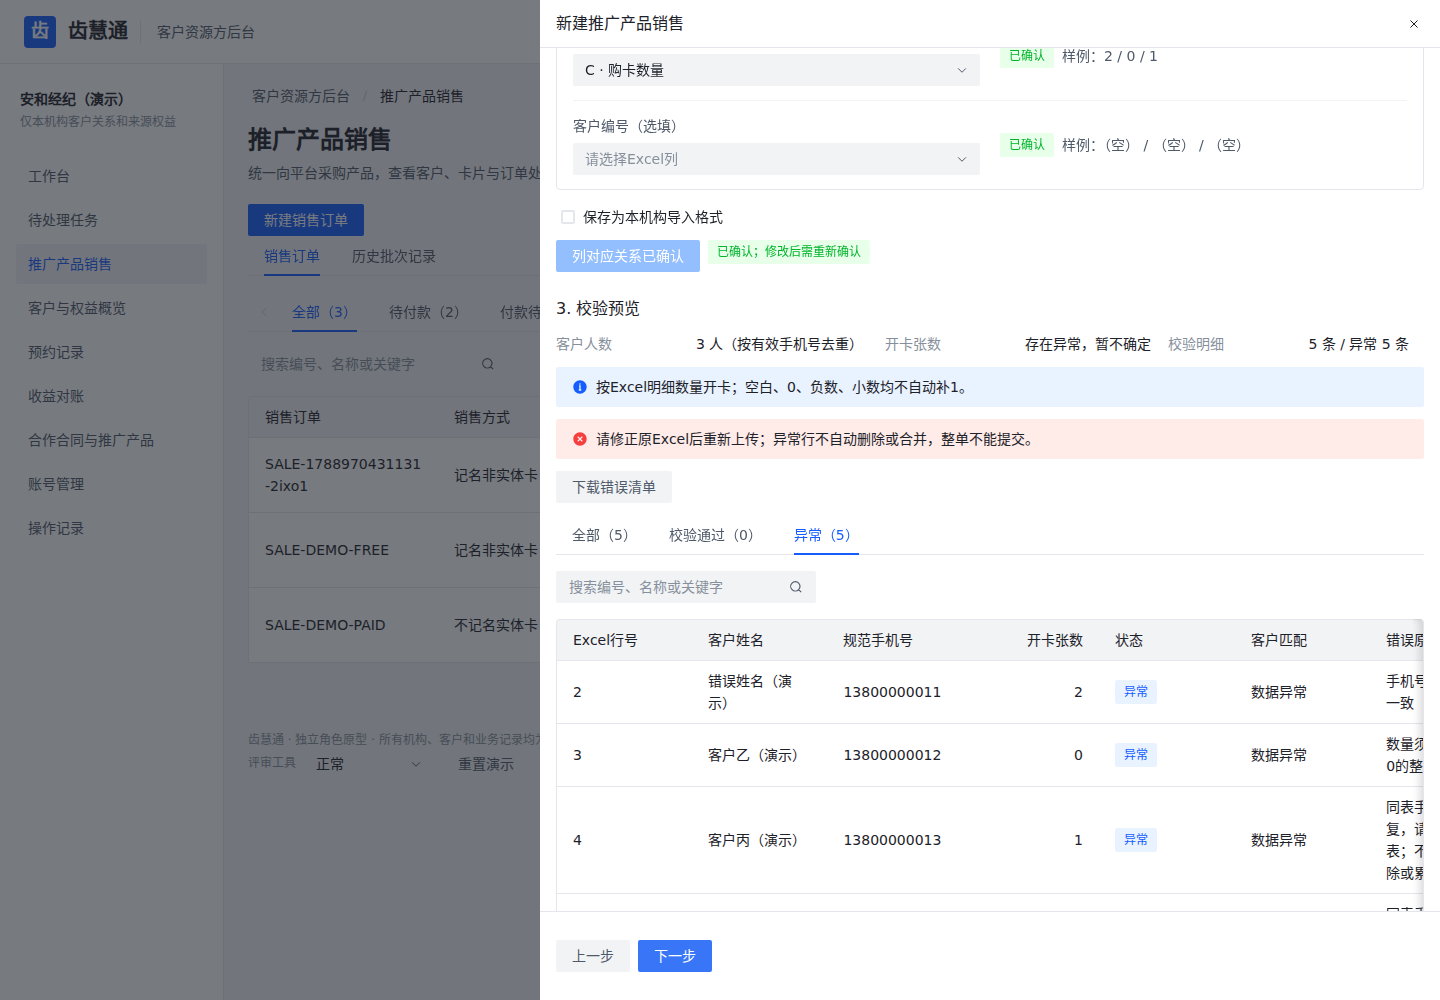
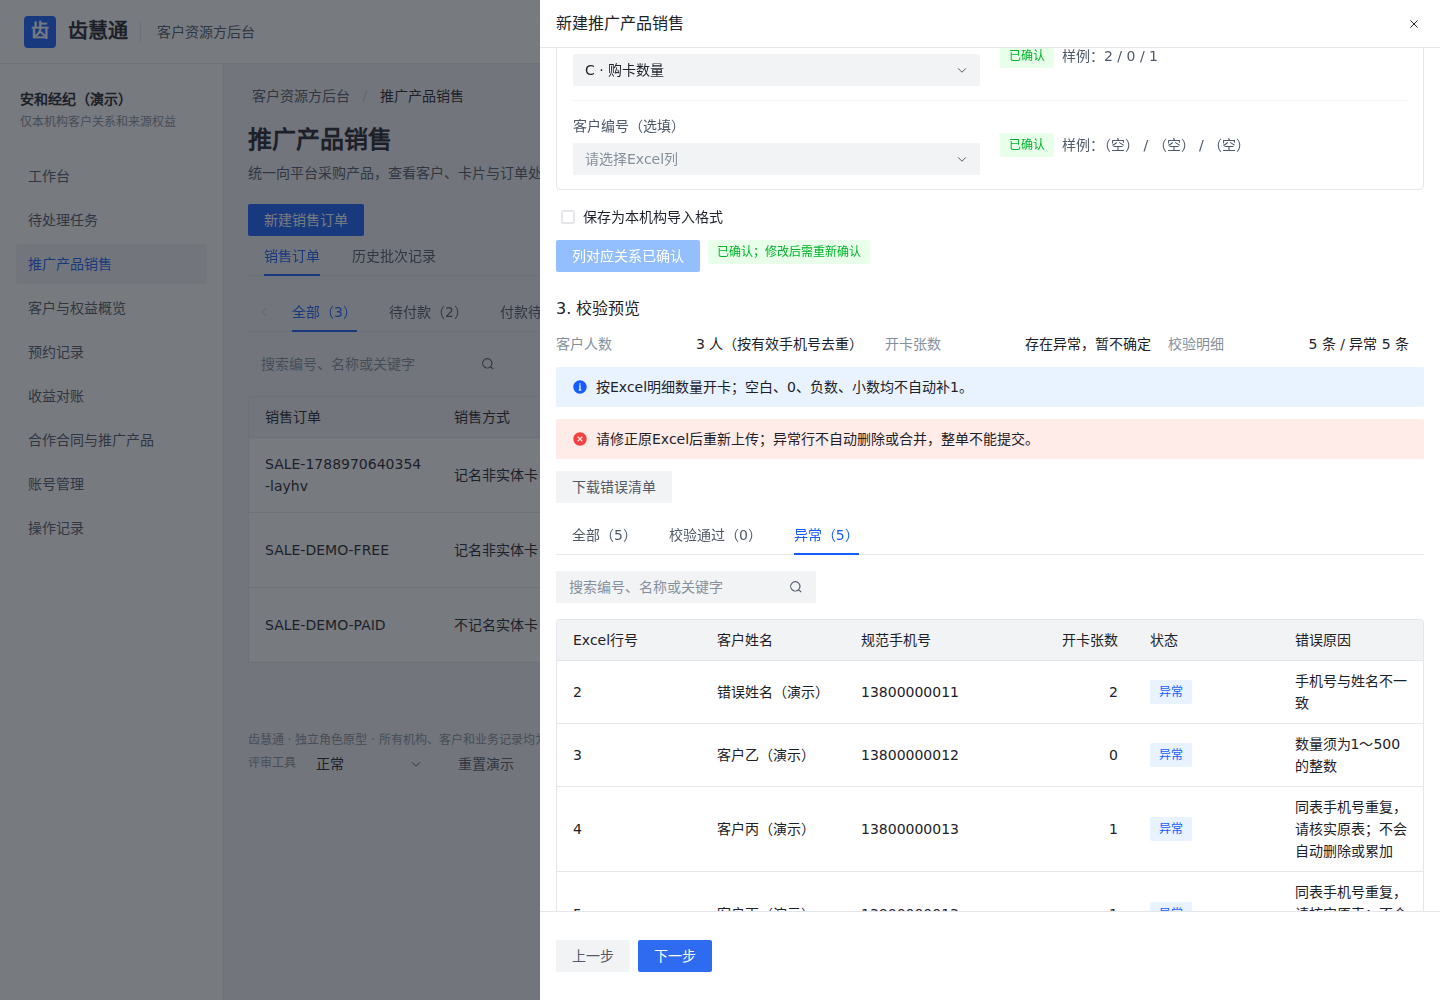
docs: record Excel import validation and final review screenshots

diff --git a/docs/tasks.md b/docs/tasks.md
@@ -8,9 +8,20 @@
 
 | 编号 | 任务 | 状态 | 验收范围 |
 | --- | --- | --- | --- |
-| TASK-073 | REQ-041及交互/架构决策 | 进行中 | 映射确认、数量模式、机构格式隔离、审核追溯 |
-| TASK-074 | 资源方导入交互及平台映射只读详情 | 进行中 | 受限真实xlsx、三种虚构示例、错误清单、原销售路径 |
-| TASK-075 | 服务器专项回归、截图与同步 | 待办 | 本地不测试；远程报告、视觉检查、GitHub/快照一致 |
+| TASK-073 | REQ-041及交互/架构决策 | 完成 | 映射确认、数量模式、机构格式隔离、审核追溯 |
+| TASK-074 | 资源方导入交互及平台映射只读详情 | 待验收 | 原型已实现并通过技术验证，待用户查看效果；真实服务端不在本轮 |
+| TASK-075 | 服务器专项回归、截图与同步 | 完成 | 本地不测试；远程报告、视觉检查、GitHub/快照一致 |
+
+2026-09-10交付：REQ-041/Arco设计/ADR-0020已落地；新增独立导入模块，不引入依赖，实体卡与单客流程保留。真实受限.xlsx读入，支持多表/表头、别名/手动映射、显式统一数量、机构格式复用和修改后撤销确认；未确认/异常不能下单，平台详情只读追溯，非零先付款后审核。业务原型等待用户评审，不代表正式客户数据处理可上线。
+
+验证分批记录（均在VM-0-12-ubuntu执行）：
+
+- `9331b88`完整运行中原有18个脚本全部通过；新增脚本当轮因截图Escape触发正常放弃确认而失败，该报告仍保留`passed=false`：`/home/ubuntu/ChiHuiTong/test-results/20260909T160730Z-9331b88ea6bf/summary.json`。
+- 修正测试操作后，`96799db`新增Excel专项及销售回归2/2通过；代码与上一完整运行的业务代码一致。当轮报告：`/home/ubuntu/ChiHuiTong/test-results/20260909T161346Z-96799db0601a/summary.json`。
+- 目视发现预览错误列需要横向滚动，去掉重复匹配列并将表宽调整为820px；最终`c6f1f16768c28b3a3ce446c1937f74e28e09adb2`再次执行Excel专项/销售2/2通过、浏览器错误0、交付文件前后哈希不变。报告：`/home/ubuntu/ChiHuiTong/test-results/20260909T161716Z-c6f1f16768c2/summary.json`，UTC16:17:16～16:17:52（北京时间次日00:17:16～00:17:52）。合计19个脚本入口分批通过，其中旧合同分组入口重复调用工作流；不宣称最终提交重新单次运行19/19全量套件。
+- 新专项覆盖：别名/乱序、原行号、多表/表头、映射强制确认/变更失效、机构格式复用/隔离、歧义列、统一数量不得默认、异常Tab/全量错误Excel、重复/姓名冲突/整数、公式/宏/损坏/大小、连续上传旧请求不覆盖、预览不入账、价格守恒、订单快照和平台未付款阻断。1440/1280及768px无页面水平溢出；已查看服务器生成的映射、异常、平台依据和窄屏截图，见评审文档。
+- 初次专项的截图定位、测试清理语句、平台夹具初始化及Escape截图操作失败均有原日志；修正后复测，不删失败报告。连续测试初次端口检查误把TIME_WAIT当监听，调整SO_REUSEADDR后恢复；另在真实监听存在时验证仍拒绝启动，没有终止或复用其他服务。
+- 本地仅静态检查：9份文档链接有效，41个REQ主编号唯一，差异空白检查通过。所有运行和浏览器验证在服务器；无正式构建/lint/类型工具链，不虚报。现有4个共享服务均active、Study HTTPS200，8765无监听，项目树无.git。最后仅补充文档和服务器截图，并同步GitHub/main和服务器快照；不改已测执行代码。
 
 ## 已完成：0.30开发仓库与远程测试准备
 

diff --git a/docs/prototype-review.md b/docs/prototype-review.md
@@ -10,6 +10,10 @@
 4. 可保存本机构格式，再上传相同列结构的文件，换列顺序仍可复用，但每次必须确认。格式不保存客户样例；关键列变更/重复时提示重新确认。原型存在多个电话列时不自动决定客户电话。
 5. 提交后资源方及平台订单详情只读显示文件名、SHA-256、工作表、表头、列对应关系和数量规则；真实跨端同步仍未接入，平台测试使用显式虚构夹具。平台不能编辑已提交名单，非零订单仍须先全额收款后审核。
 
+最终服务器截图：[上传与工作表选择](../prototypes/resource/excel-upload.png) · [列对应关系与确认](../prototypes/resource/excel-mapping.png) · [异常校验与错误清单](../prototypes/resource/excel-errors.png) · [768px窄屏](../prototypes/resource/excel-mapping-narrow.png) · [平台只读导入依据](../prototypes/platform/excel-import-receipt.png)。
+
+2026-09-10：新增专项及销售回归最终2/2通过，原有18个脚本在此前完整运行中通过；覆盖与失败修复证据见TASK-075。本轮共19个入口分批验证，未把早期失败报告修改为通过。截图已目视检查；可先据本页评审，不把静态截图当成公网交互地址。
+
 服务器验证与截图由TASK-075记录；只在指定服务器运行，本地不启动页面，也未开放公网原型地址。原型只保留订单导入快照和客户明细，不持久保存可供下载的原始工作簿；正式文件存储及访问控制另行实现。原型限受限.xlsx/1MB/5表/30列/200条客户/500张总卡，拒绝公式/宏/外链及合并单元格；不代表正式Office兼容、租户安全或真实权益发放。REQ-039紧凑提醒仍待开发，不在此次范围。
 
 > 0.30环境约束继续有效：全部测试仅在指定公共开发服务器执行。本页旧本地命令、localhost链接和桌面试用步骤仅作历史，不再授权本地测试。当前统一入口、服务器测试证据及限制见[开发环境](operations/development.md)；本地只维护Git及同步文件。业务基线为0.29，本轮0.31新增列适配；REQ-039紧凑提醒新交互仍待实现。

diff --git a/docs/operations/development.md b/docs/operations/development.md
@@ -55,6 +55,8 @@ python3 -m venv /home/ubuntu/ChiHuiTong/.venv
 
 ## 首次交付证据（2026-09-09）
 
+后续0.31列适配已于2026-09-10完成服务器分批技术验证，报告与最终截图归属见[TASK-075](../tasks.md)；新增专项与销售最终2/2通过，旧18脚本通过记录独立保留。连续回归的预检查允许复用关闭连接的TIME_WAIT，但不启用SO_REUSEPORT；已有实际监听时仍拒绝启动，不借用或终止其他进程。业务原型尚待用户评审，不新增公网服务。
+
 - 已建立本地main及GitHub origin，正常首推成功，未强推或修改仓库可见性。初始备份推送与服务器回归并行，推送时不视为测试通过；现已取得全量通过结果。后续功能按上面的先验证、后推送流程执行。
[2 lines of base64/hex data omitted]
